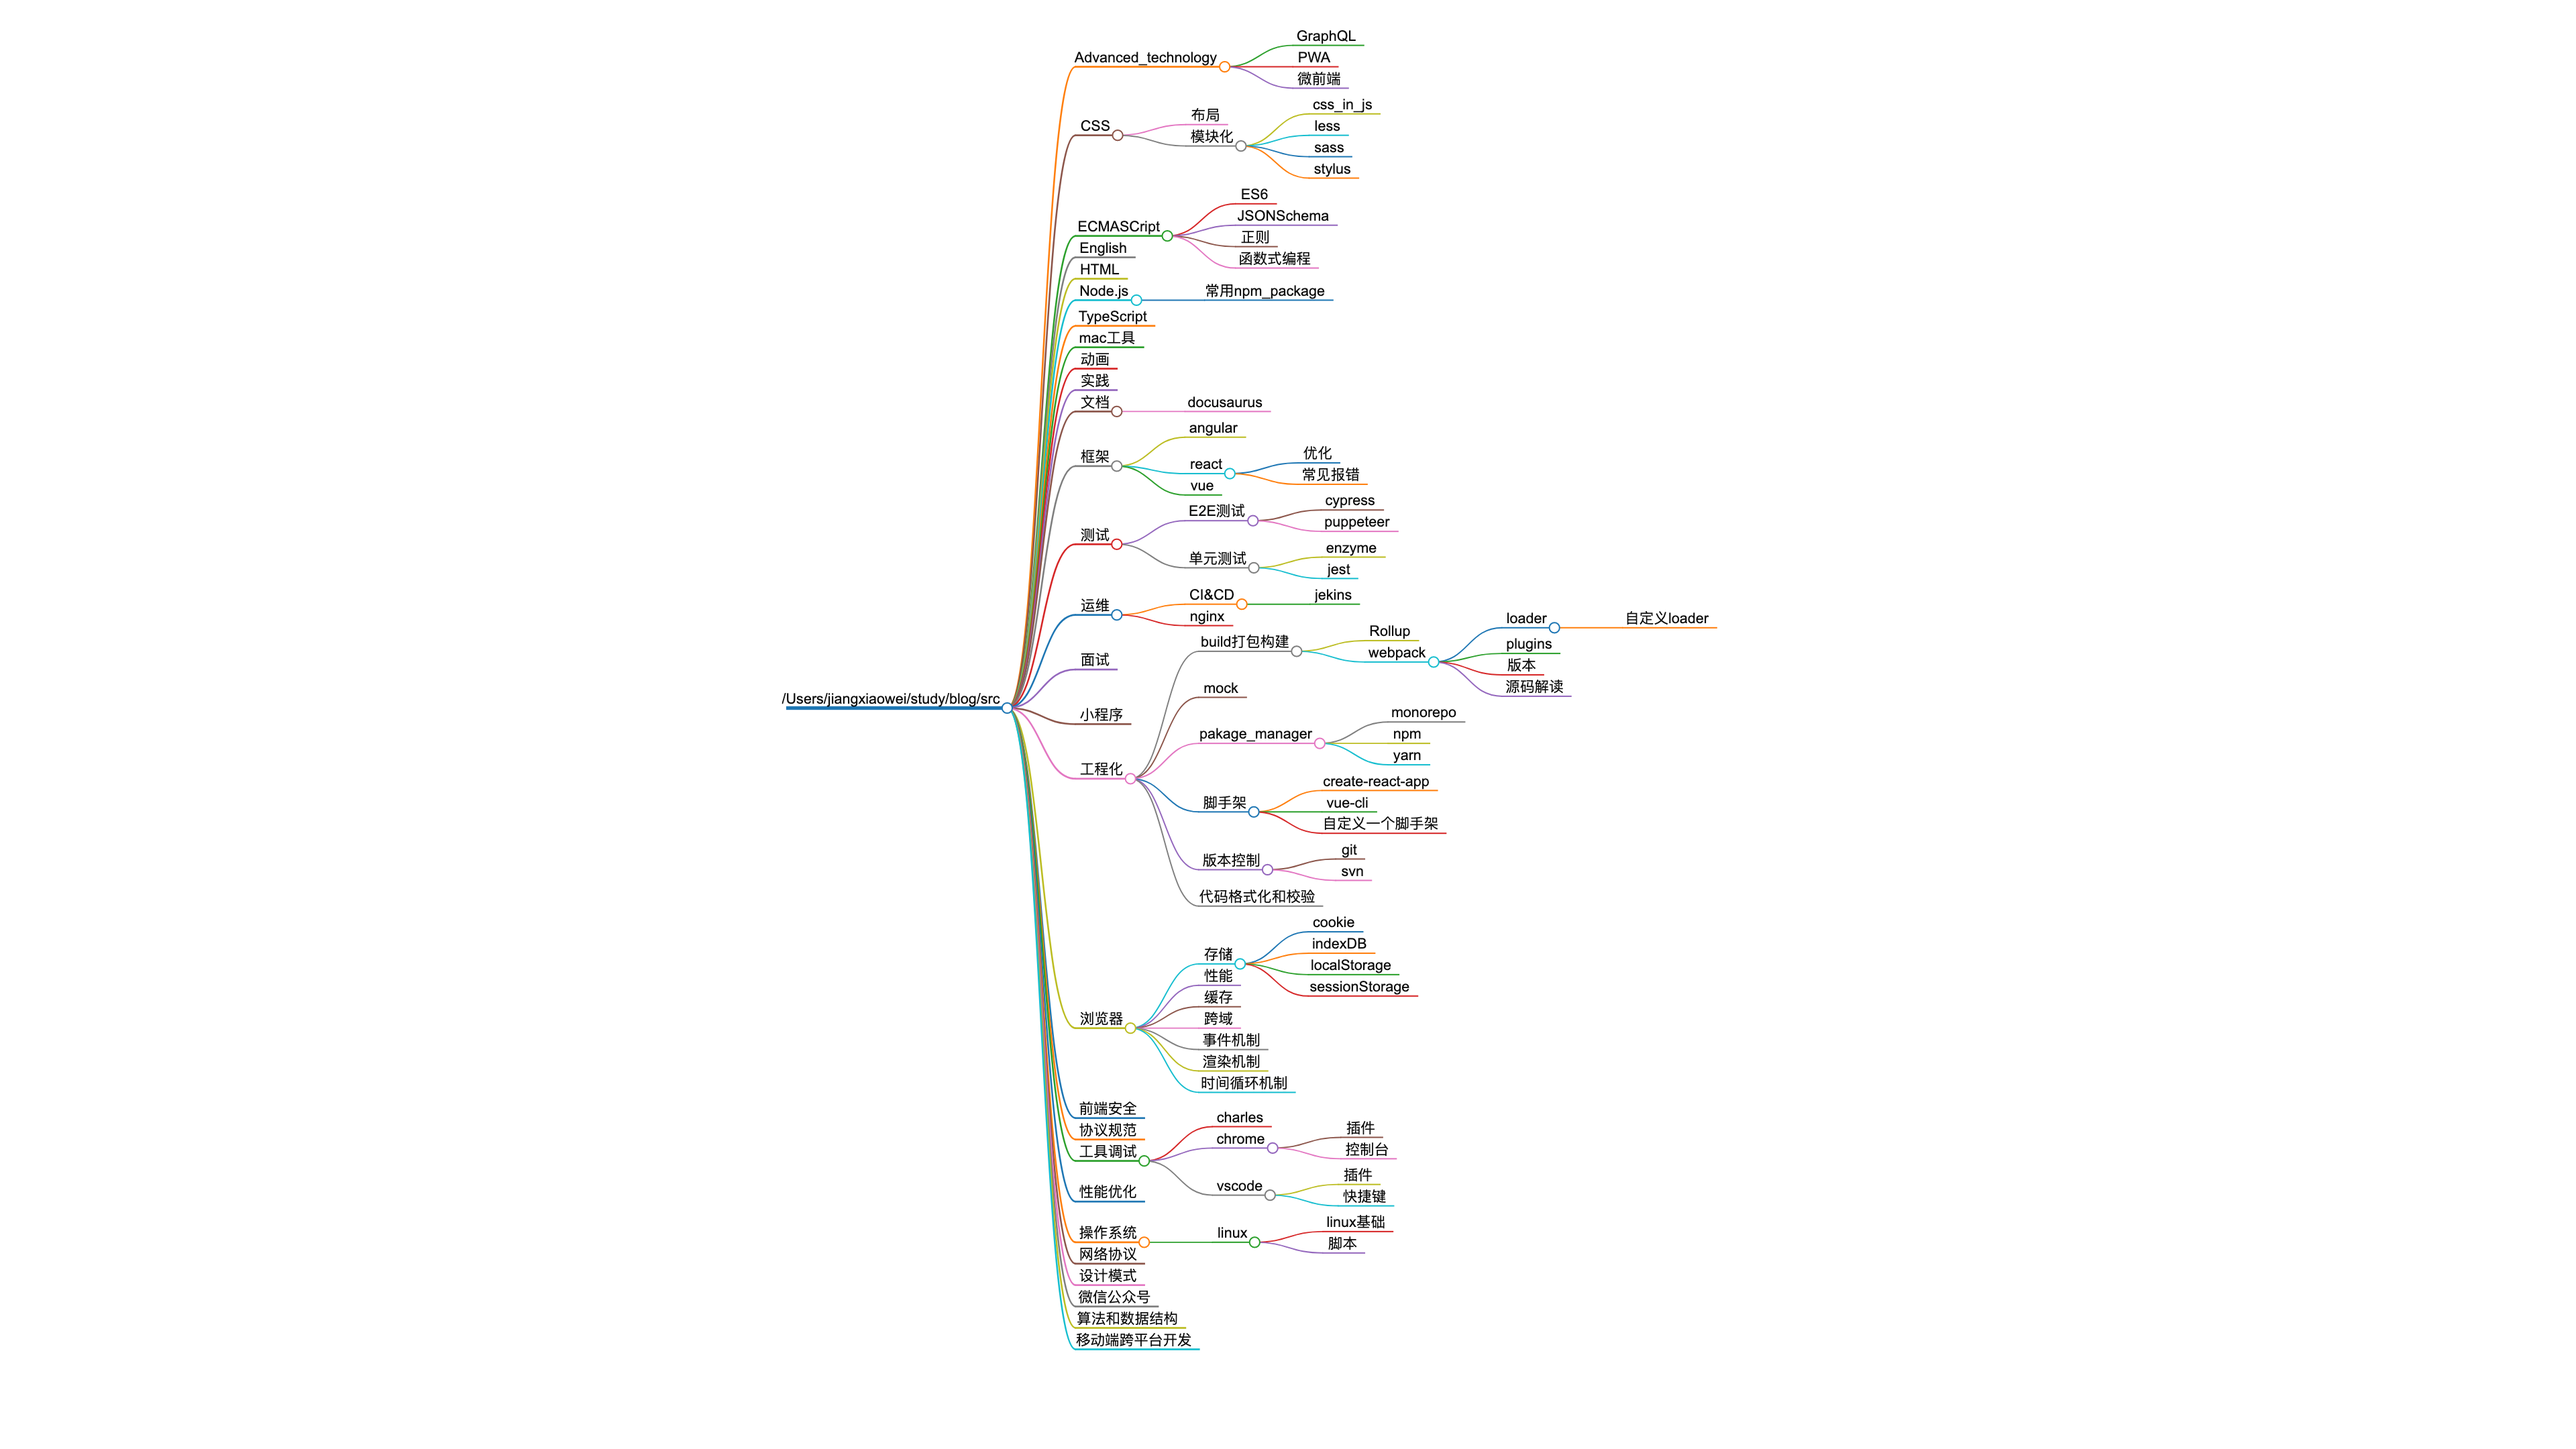
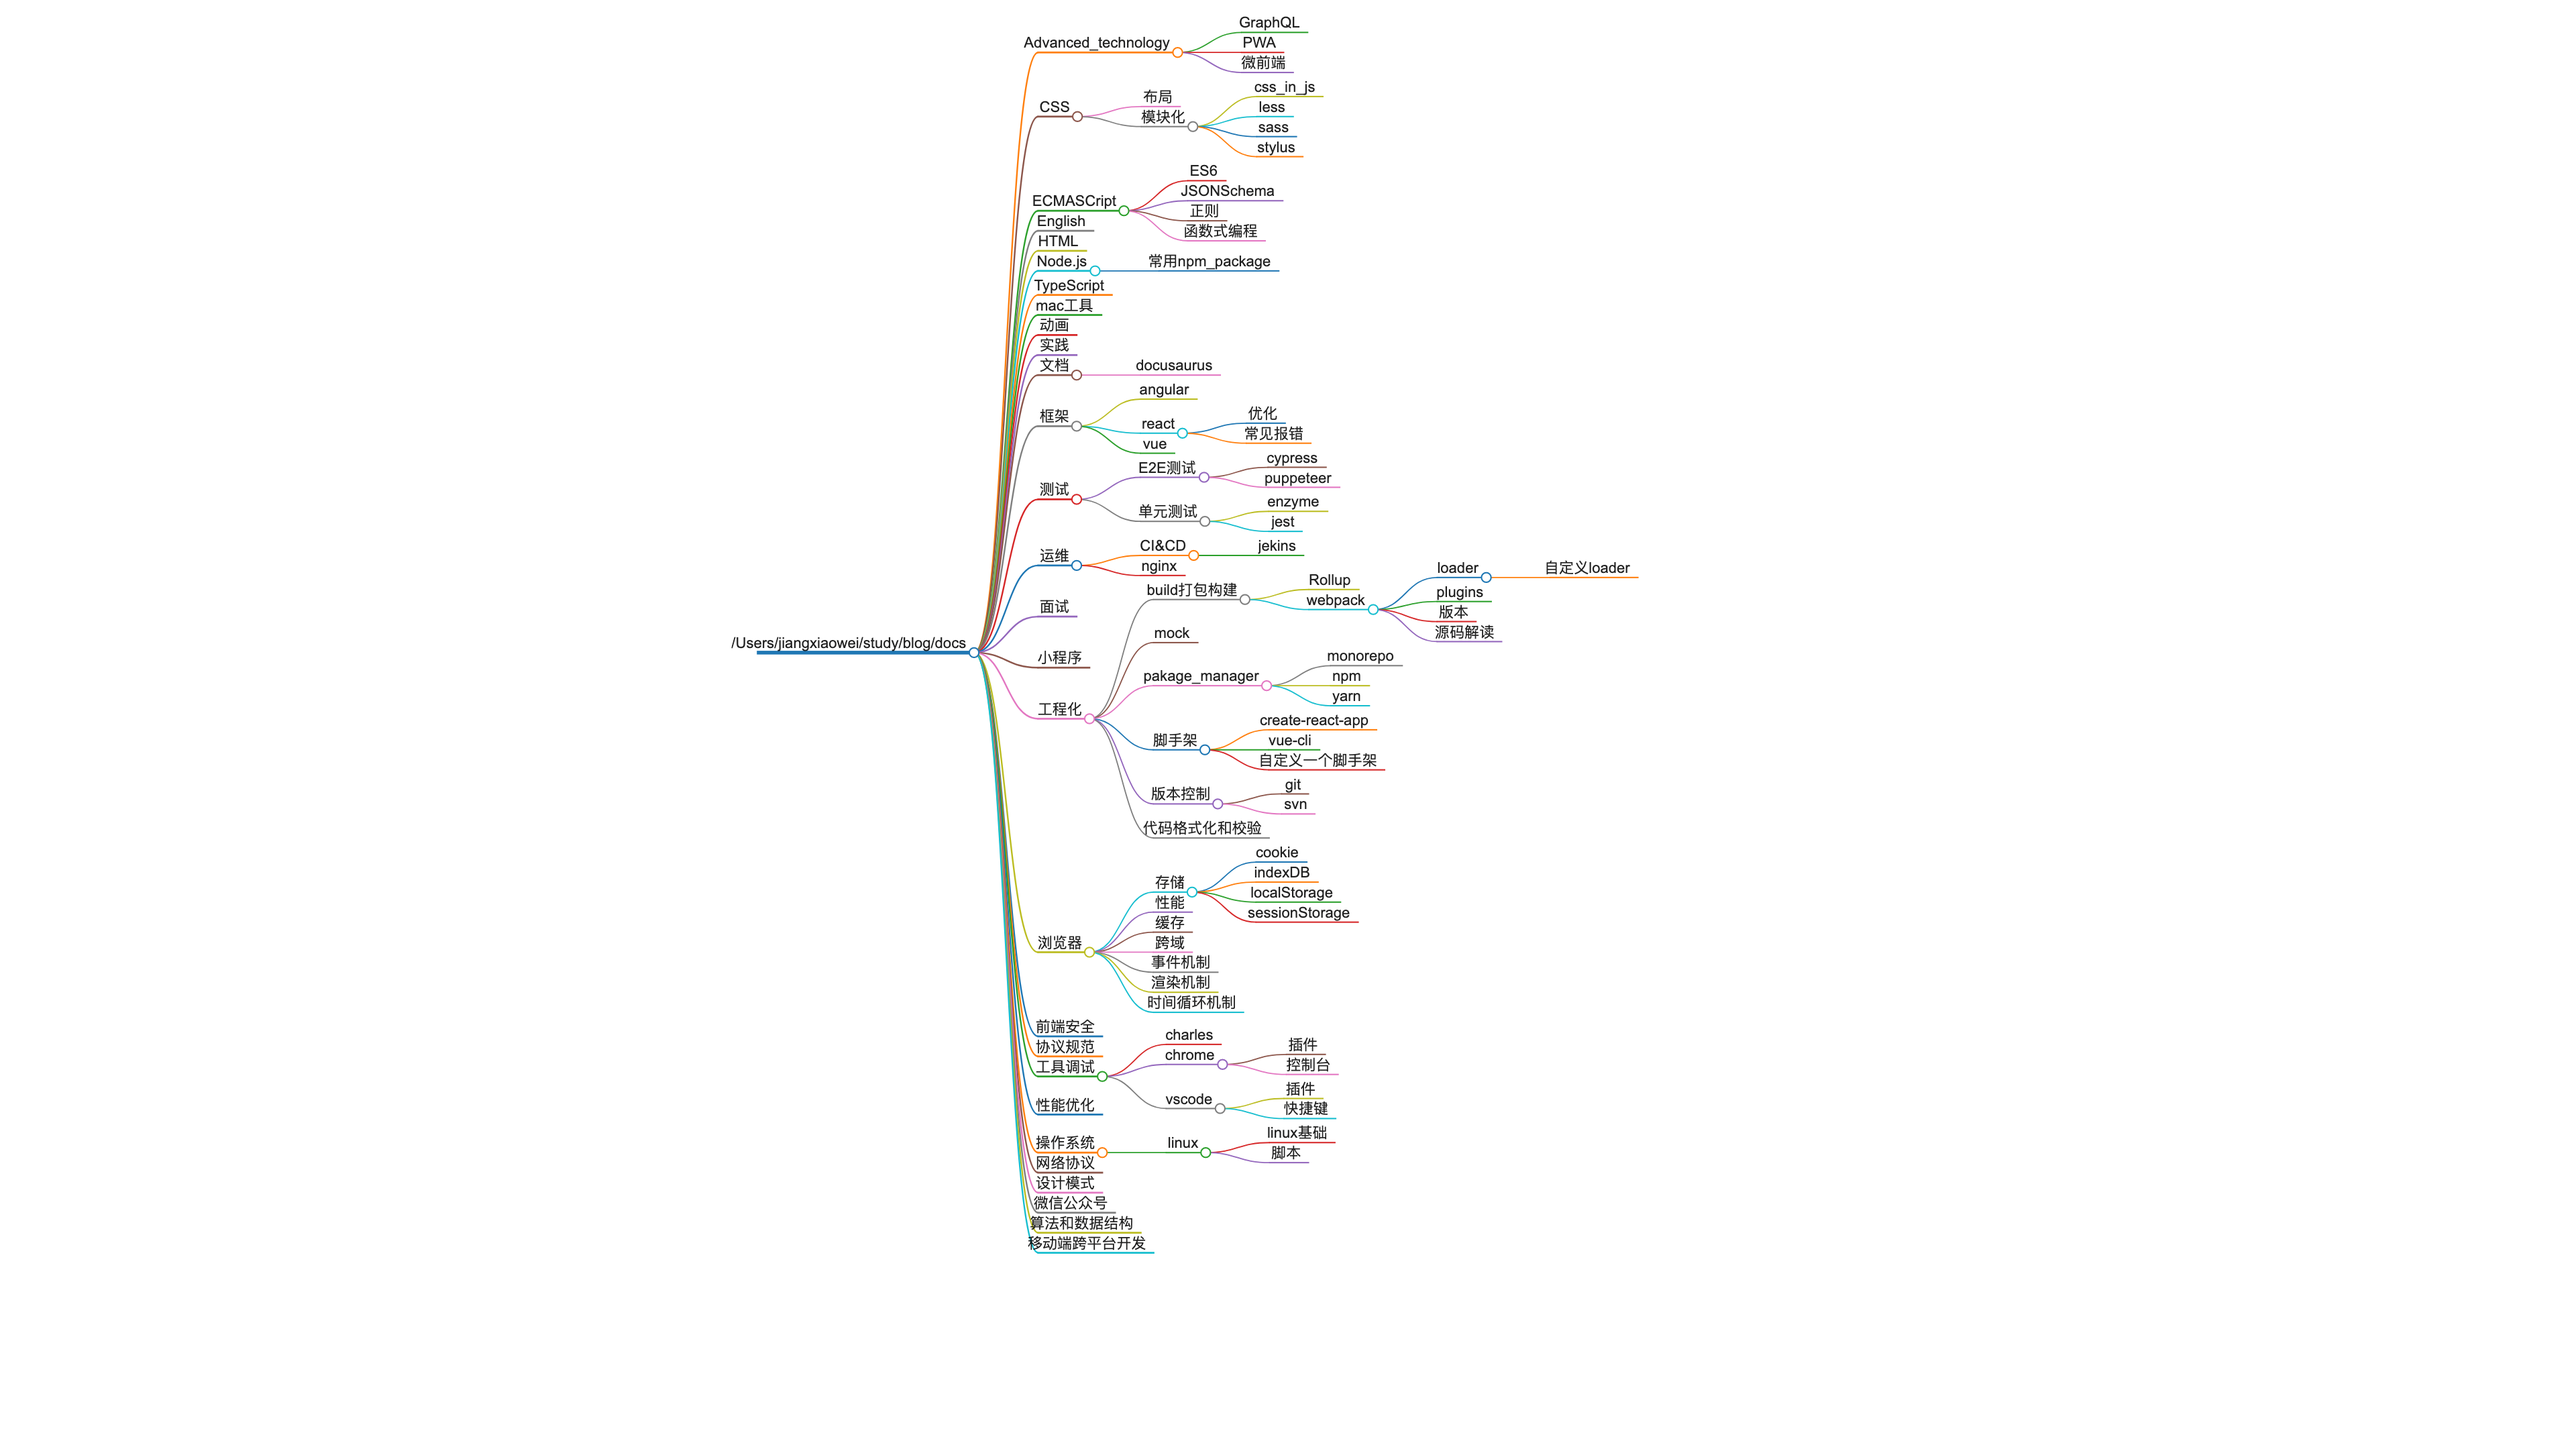
chore: updata思维导图

Changed region(s): [[0.2812, 0.0, 0.625, 0.9306], [0.625, 0.4032, 0.6562, 0.4343], [0.5938, 0.3722, 0.625, 0.4032]]

diff --git a/docs/xmind.html b/docs/xmind.html
@@ -28,6 +28,6 @@
         (init ? init(loadPlugins, items, opts) : Promise.resolve()).then(() => {
           Markmap.create('svg#mindmap', null, data);
         });
-      })({"t":"heading","d":1,"v":"/Users/jiangxiaowei/study/blog/src","c":[{"t":"list_item","d":2,"v":"Advanced_technology","c":[{"t":"list_item","d":3,"v":"GraphQL"},{"t":"list_item","d":3,"v":"PWA"},{"t":"list_item","d":3,"v":"微前端"}]},{"t":"list_item","d":2,"v":"CSS","c":[{"t":"list_item","d":3,"v":"布局"},{"t":"list_item","d":3,"v":"模块化","c":[{"t":"list_item","d":4,"v":"css_in_js"},{"t":"list_item","d":4,"v":"less"},{"t":"list_item","d":4,"v":"sass"},{"t":"list_item","d":4,"v":"stylus"}]}]},{"t":"list_item","d":2,"v":"ECMASCript","c":[{"t":"list_item","d":3,"v":"ES6"},{"t":"list_item","d":3,"v":"JSONSchema"},{"t":"list_item","d":3,"v":"正则"},{"t":"list_item","d":3,"v":"函数式编程"}]},{"t":"list_item","d":2,"v":"English"},{"t":"list_item","d":2,"v":"HTML"},{"t":"list_item","d":2,"v":"Node.js","c":[{"t":"list_item","d":3,"v":"常用npm_package"}]},{"t":"list_item","d":2,"v":"TypeScript"},{"t":"list_item","d":2,"v":"mac工具"},{"t":"list_item","d":2,"v":"动画"},{"t":"list_item","d":2,"v":"实践"},{"t":"list_item","d":2,"v":"文档","c":[{"t":"list_item","d":3,"v":"docusaurus"}]},{"t":"list_item","d":2,"v":"框架","c":[{"t":"list_item","d":3,"v":"angular"},{"t":"list_item","d":3,"v":"react","c":[{"t":"list_item","d":4,"v":"优化"},{"t":"list_item","d":4,"v":"常见报错"}]},{"t":"list_item","d":3,"v":"vue"}]},{"t":"list_item","d":2,"v":"测试","c":[{"t":"list_item","d":3,"v":"E2E测试","c":[{"t":"list_item","d":4,"v":"cypress"},{"t":"list_item","d":4,"v":"puppeteer"}]},{"t":"list_item","d":3,"v":"单元测试","c":[{"t":"list_item","d":4,"v":"enzyme"},{"t":"list_item","d":4,"v":"jest"}]}]},{"t":"list_item","d":2,"v":"运维","c":[{"t":"list_item","d":3,"v":"CI&amp;CD","c":[{"t":"list_item","d":4,"v":"jekins"}]},{"t":"list_item","d":3,"v":"nginx"}]},{"t":"list_item","d":2,"v":"面试"},{"t":"list_item","d":2,"v":"小程序"},{"t":"list_item","d":2,"v":"工程化","c":[{"t":"list_item","d":3,"v":"build打包构建","c":[{"t":"list_item","d":4,"v":"Rollup"},{"t":"list_item","d":4,"v":"webpack","c":[{"t":"list_item","d":5,"v":"loader","c":[{"t":"list_item","d":6,"v":"自定义loader"}]},{"t":"list_item","d":5,"v":"plugins"},{"t":"list_item","d":5,"v":"版本"},{"t":"list_item","d":5,"v":"源码解读"}]}]},{"t":"list_item","d":3,"v":"mock"},{"t":"list_item","d":3,"v":"pakage_manager","c":[{"t":"list_item","d":4,"v":"monorepo"},{"t":"list_item","d":4,"v":"npm"},{"t":"list_item","d":4,"v":"yarn"}]},{"t":"list_item","d":3,"v":"脚手架","c":[{"t":"list_item","d":4,"v":"create-react-app"},{"t":"list_item","d":4,"v":"vue-cli"},{"t":"list_item","d":4,"v":"自定义一个脚手架"}]},{"t":"list_item","d":3,"v":"版本控制","c":[{"t":"list_item","d":4,"v":"git"},{"t":"list_item","d":4,"v":"svn"}]},{"t":"list_item","d":3,"v":"代码格式化和校验"}]},{"t":"list_item","d":2,"v":"浏览器","c":[{"t":"list_item","d":3,"v":"存储","c":[{"t":"list_item","d":4,"v":"cookie"},{"t":"list_item","d":4,"v":"indexDB"},{"t":"list_item","d":4,"v":"localStorage"},{"t":"list_item","d":4,"v":"sessionStorage"}]},{"t":"list_item","d":3,"v":"性能"},{"t":"list_item","d":3,"v":"缓存"},{"t":"list_item","d":3,"v":"跨域"},{"t":"list_item","d":3,"v":"事件机制"},{"t":"list_item","d":3,"v":"渲染机制"},{"t":"list_item","d":3,"v":"时间循环机制"}]},{"t":"list_item","d":2,"v":"前端安全"},{"t":"list_item","d":2,"v":"协议规范"},{"t":"list_item","d":2,"v":"工具调试","c":[{"t":"list_item","d":3,"v":"charles"},{"t":"list_item","d":3,"v":"chrome","c":[{"t":"list_item","d":4,"v":"插件"},{"t":"list_item","d":4,"v":"控制台"}]},{"t":"list_item","d":3,"v":"vscode","c":[{"t":"list_item","d":4,"v":"插件"},{"t":"list_item","d":4,"v":"快捷键"}]}]},{"t":"list_item","d":2,"v":"性能优化"},{"t":"list_item","d":2,"v":"操作系统","c":[{"t":"list_item","d":3,"v":"linux","c":[{"t":"list_item","d":4,"v":"linux基础"},{"t":"list_item","d":4,"v":"脚本"}]}]},{"t":"list_item","d":2,"v":"网络协议"},{"t":"list_item","d":2,"v":"设计模式"},{"t":"list_item","d":2,"v":"微信公众号"},{"t":"list_item","d":2,"v":"算法和数据结构"},{"t":"list_item","d":2,"v":"移动端跨平台开发"}]},(loadPlugins, items, opts) => loadPlugins(items, opts),["prism"],{"prism":true})</script>
+      })({"t":"heading","d":1,"v":"/Users/jiangxiaowei/study/blog/docs","c":[{"t":"list_item","d":2,"v":"Advanced_technology","c":[{"t":"list_item","d":3,"v":"GraphQL"},{"t":"list_item","d":3,"v":"PWA"},{"t":"list_item","d":3,"v":"微前端"}]},{"t":"list_item","d":2,"v":"CSS","c":[{"t":"list_item","d":3,"v":"布局"},{"t":"list_item","d":3,"v":"模块化","c":[{"t":"list_item","d":4,"v":"css_in_js"},{"t":"list_item","d":4,"v":"less"},{"t":"list_item","d":4,"v":"sass"},{"t":"list_item","d":4,"v":"stylus"}]}]},{"t":"list_item","d":2,"v":"ECMASCript","c":[{"t":"list_item","d":3,"v":"ES6"},{"t":"list_item","d":3,"v":"JSONSchema"},{"t":"list_item","d":3,"v":"正则"},{"t":"list_item","d":3,"v":"函数式编程"}]},{"t":"list_item","d":2,"v":"English"},{"t":"list_item","d":2,"v":"HTML"},{"t":"list_item","d":2,"v":"Node.js","c":[{"t":"list_item","d":3,"v":"常用npm_package"}]},{"t":"list_item","d":2,"v":"TypeScript"},{"t":"list_item","d":2,"v":"mac工具"},{"t":"list_item","d":2,"v":"动画"},{"t":"list_item","d":2,"v":"实践"},{"t":"list_item","d":2,"v":"文档","c":[{"t":"list_item","d":3,"v":"docusaurus"}]},{"t":"list_item","d":2,"v":"框架","c":[{"t":"list_item","d":3,"v":"angular"},{"t":"list_item","d":3,"v":"react","c":[{"t":"list_item","d":4,"v":"优化"},{"t":"list_item","d":4,"v":"常见报错"}]},{"t":"list_item","d":3,"v":"vue"}]},{"t":"list_item","d":2,"v":"测试","c":[{"t":"list_item","d":3,"v":"E2E测试","c":[{"t":"list_item","d":4,"v":"cypress"},{"t":"list_item","d":4,"v":"puppeteer"}]},{"t":"list_item","d":3,"v":"单元测试","c":[{"t":"list_item","d":4,"v":"enzyme"},{"t":"list_item","d":4,"v":"jest"}]}]},{"t":"list_item","d":2,"v":"运维","c":[{"t":"list_item","d":3,"v":"CI&amp;CD","c":[{"t":"list_item","d":4,"v":"jekins"}]},{"t":"list_item","d":3,"v":"nginx"}]},{"t":"list_item","d":2,"v":"面试"},{"t":"list_item","d":2,"v":"小程序"},{"t":"list_item","d":2,"v":"工程化","c":[{"t":"list_item","d":3,"v":"build打包构建","c":[{"t":"list_item","d":4,"v":"Rollup"},{"t":"list_item","d":4,"v":"webpack","c":[{"t":"list_item","d":5,"v":"loader","c":[{"t":"list_item","d":6,"v":"自定义loader"}]},{"t":"list_item","d":5,"v":"plugins"},{"t":"list_item","d":5,"v":"版本"},{"t":"list_item","d":5,"v":"源码解读"}]}]},{"t":"list_item","d":3,"v":"mock"},{"t":"list_item","d":3,"v":"pakage_manager","c":[{"t":"list_item","d":4,"v":"monorepo"},{"t":"list_item","d":4,"v":"npm"},{"t":"list_item","d":4,"v":"yarn"}]},{"t":"list_item","d":3,"v":"脚手架","c":[{"t":"list_item","d":4,"v":"create-react-app"},{"t":"list_item","d":4,"v":"vue-cli"},{"t":"list_item","d":4,"v":"自定义一个脚手架"}]},{"t":"list_item","d":3,"v":"版本控制","c":[{"t":"list_item","d":4,"v":"git"},{"t":"list_item","d":4,"v":"svn"}]},{"t":"list_item","d":3,"v":"代码格式化和校验"}]},{"t":"list_item","d":2,"v":"浏览器","c":[{"t":"list_item","d":3,"v":"存储","c":[{"t":"list_item","d":4,"v":"cookie"},{"t":"list_item","d":4,"v":"indexDB"},{"t":"list_item","d":4,"v":"localStorage"},{"t":"list_item","d":4,"v":"sessionStorage"}]},{"t":"list_item","d":3,"v":"性能"},{"t":"list_item","d":3,"v":"缓存"},{"t":"list_item","d":3,"v":"跨域"},{"t":"list_item","d":3,"v":"事件机制"},{"t":"list_item","d":3,"v":"渲染机制"},{"t":"list_item","d":3,"v":"时间循环机制"}]},{"t":"list_item","d":2,"v":"前端安全"},{"t":"list_item","d":2,"v":"协议规范"},{"t":"list_item","d":2,"v":"工具调试","c":[{"t":"list_item","d":3,"v":"charles"},{"t":"list_item","d":3,"v":"chrome","c":[{"t":"list_item","d":4,"v":"插件"},{"t":"list_item","d":4,"v":"控制台"}]},{"t":"list_item","d":3,"v":"vscode","c":[{"t":"list_item","d":4,"v":"插件"},{"t":"list_item","d":4,"v":"快捷键"}]}]},{"t":"list_item","d":2,"v":"性能优化"},{"t":"list_item","d":2,"v":"操作系统","c":[{"t":"list_item","d":3,"v":"linux","c":[{"t":"list_item","d":4,"v":"linux基础"},{"t":"list_item","d":4,"v":"脚本"}]}]},{"t":"list_item","d":2,"v":"网络协议"},{"t":"list_item","d":2,"v":"设计模式"},{"t":"list_item","d":2,"v":"微信公众号"},{"t":"list_item","d":2,"v":"算法和数据结构"},{"t":"list_item","d":2,"v":"移动端跨平台开发"}]},(loadPlugins, items, opts) => loadPlugins(items, opts),["prism"],{"prism":true})</script>
 </body>
 </html>

diff --git a/README.md b/README.md
@@ -1,3 +1,8 @@
+---
+id: 149b737d2852ec5b5a99bdec355b4810
+title: README
+---
+
 <!-- START doctoc generated TOC please keep comment here to allow auto update -->
 <!-- DON'T EDIT THIS SECTION, INSTEAD RE-RUN doctoc TO UPDATE -->
 
@@ -34,7 +39,14 @@
 1. 在 pre-commit 阶段
 
    1. `lint-staged`
-   2. `doctoc` 对新增的 md 文件自动添加针对 github 的目录
+
+      1. ~~`doctoc` 对新增的 md 文件自动添加针对 github 的目录~~
+
+         目录交给 docusaurus 处理
+
+      2. 有改动的 md 文件重新添加`frontmatter`
+
+   2. `docs`文件自动生成`website/sidebars.js`文件
 
 2. pre-push 阶段
 

diff --git a/docs/工程化/build打包构建/webpack/源码解读/webpack源码解读.md b/docs/工程化/build打包构建/webpack/源码解读/webpack源码解读.md
@@ -10,9 +10,11 @@ title: webpack源码解读
 
 <!-- END doctoc generated TOC please keep comment here to allow auto update -->
 
+import useBaseUrl from '@docusaurus/useBaseUrl'
+
 本文只是笔者初次学习 webpack 源码所写（感谢[依柳诚](https://juejin.im/user/57e1143479bc44610a4a9577)提供的阅读 webpack 源码的思路），供以后精读作目录使用。
 
-![webpack流程图](/Users/jiangxiaowei/Desktop/blog/webpack流程图.jpg)
+<img src={useBaseUrl(img/webpack_process.jpg)}/>
 
 1. vscode debug
 

diff --git a/docs/工程化/脚手架/自定义一个脚手架/commander.md b/docs/工程化/脚手架/自定义一个脚手架/commander.md
@@ -23,7 +23,7 @@ title: commander
 3. 可选`program.option('-s,--small <type> [args]','description',[fn],[default])`
 
 - 参数 1: 指令。由一个断指令和长指令组成，中间用`,`、`|`、`空格`分割
-  - <>代表该指令必须输入一个值
+  - \<\>代表该指令必须输入一个值
   - []代表可选
 - 参数 2: 指令详细描述
 - 参数 3：回调函数 可选

diff --git a/docs/TypeScript/react+ts.md b/docs/TypeScript/react+ts.md
@@ -47,7 +47,7 @@ title: react+ts
 
    - 初始值是 null 使用联合类型 useState<P | null>(null)
 
-   - useRef<HTMLElement>(null!) or useRef<HTMLElement | _null_>(_null_)
+   - useRef\<HTMLElement\>(null!) or useRef\<HTMLElement | _null_\>(_null_)
 
      **尽量不用`!`(Non-null、Non-undefined),而是使用非 null 后者非 undefined 代码块。程序更易读**
 
